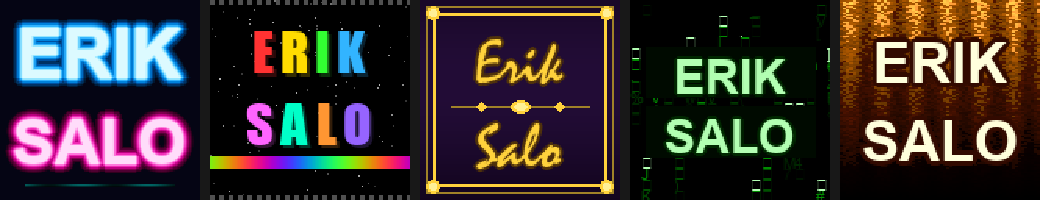
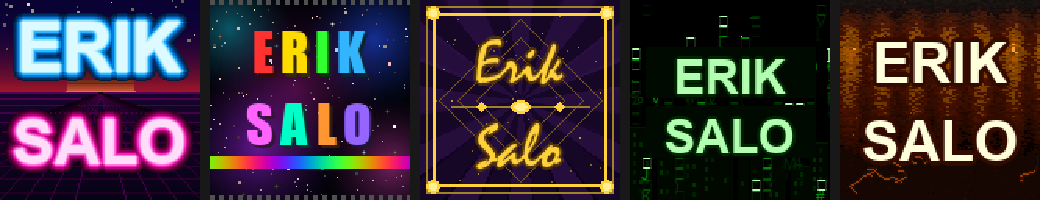
Add theme CLI and OpenClaw skill for Lex integration
- divoom_themes.py: CLI tool with named themes, aliases, and per-screen control
- openclaw-skill/SKILL.md: teaches Lex the available themes and commands

diff --git a/divoom_themes.py b/divoom_themes.py
@@ -1,0 +1,182 @@
+#!/usr/bin/env python3
+"""
+Divoom Times Gate Theme Controller
+CLI for applying named themes to individual screens.
+
+Usage:
+    python divoom_themes.py list
+    python divoom_themes.py apply <theme> <screen>
+    python divoom_themes.py apply-all
+    python divoom_themes.py brightness <0-100>
+"""
+
+import sys
+import os
+import argparse
+import time
+
+# Ensure we can import from the same directory regardless of cwd
+sys.path.insert(0, os.path.dirname(os.path.abspath(__file__)))
+from divoom_erik import (
+    send_command, send_to_screen, send_animation,
+    make_screen_neon, make_screen_arcade, make_screen_gold,
+    make_screen_matrix, make_screen_fire,
+)
+
+THEMES = {
+    "synthwave": {
+        "description": "Retro synthwave: neon sun, perspective grid floor, cyan/magenta glow text",
+        "aliases": ["neon", "retro", "vaporwave", "80s", "grid", "outrun"],
+        "animated": False,
+        "make": make_screen_neon,
+    },
+    "nebula": {
+        "description": "Cosmic nebula: colorful gas clouds, bright starfield, rainbow letters",
+        "aliases": ["cosmic", "space", "galaxy", "stars", "arcade"],
+        "animated": False,
+        "make": make_screen_arcade,
+    },
+    "gold": {
+        "description": "Art deco gold: sunburst rays on purple, diamond shapes, ornamental frame",
+        "aliases": ["artdeco", "elegant", "royal", "fancy", "purple", "deco"],
+        "animated": False,
+        "make": make_screen_gold,
+    },
+    "matrix": {
+        "description": "Matrix city: green rain, city skyline silhouette, flickering windows",
+        "aliases": ["cyber", "hacker", "code", "rain", "city", "digital", "green"],
+        "animated": True,
+        "make": make_screen_matrix,
+        "frames": 10,
+        "speed_ms": 300,
+    },
+    "fire": {
+        "description": "Volcanic fire: lava cracks, floating embers, smoke, flames",
+        "aliases": ["volcano", "lava", "flames", "inferno", "volcanic", "ember"],
+        "animated": True,
+        "make": make_screen_fire,
+        "frames": 10,
+        "speed_ms": 250,
+    },
+}
+
+# Default layout: which theme goes on which screen (0-4 left to right)
+DEFAULT_LAYOUT = [
+    ("synthwave", 0),
+    ("nebula", 1),
+    ("gold", 2),
+    ("matrix", 3),
+    ("fire", 4),
+]
+
+
+def resolve_theme(name):
+    """Resolve a theme by name or alias. Returns canonical theme name or None."""
+    name = name.lower().strip()
+    if name in THEMES:
+        return name
+    for theme_name, info in THEMES.items():
+        if name in info["aliases"]:
+            return theme_name
+    return None
+
+
+def apply_theme(theme_name, screen_id):
+    """Generate and send a theme to a specific screen."""
+    info = THEMES[theme_name]
+    print(f"Applying '{theme_name}' to screen {screen_id}...")
+
+    if info["animated"]:
+        frames = info["make"](num_frames=info["frames"])
+        send_animation(screen_id, frames, speed_ms=info["speed_ms"])
+    else:
+        img = info["make"]()
+        send_to_screen(screen_id, img)
+
+    print(f"  Done! Screen {screen_id} = {theme_name}")
+
+
+def cmd_list(args):
+    """List all available themes."""
+    print("Available Divoom Times Gate themes:\n")
+    for name, info in THEMES.items():
+        anim = " (animated)" if info["animated"] else ""
+        aliases = ", ".join(info["aliases"])
+        print(f"  {name:12s}{anim}")
+        print(f"    {info['description']}")
+        print(f"    aliases: {aliases}\n")
+    print("Screens are numbered 0-4 (left to right).")
+    print("Default layout: " + ", ".join(f"{s}={t}" for t, s in DEFAULT_LAYOUT))
+
+
+def cmd_apply(args):
+    """Apply a theme to a screen."""
+    theme = resolve_theme(args.theme)
+    if theme is None:
+        print(f"Error: Unknown theme '{args.theme}'")
+        print(f"Available: {', '.join(THEMES.keys())}")
+        sys.exit(1)
+    if not 0 <= args.screen <= 4:
+        print(f"Error: Screen must be 0-4, got {args.screen}")
+        sys.exit(1)
+
+    send_command({"Command": "Draw/ResetHttpGifId"})
+    time.sleep(0.3)
+    apply_theme(theme, args.screen)
+
+
+def cmd_apply_all(args):
+    """Apply the default 5-theme layout to all screens."""
+    print("Applying default layout to all 5 screens...")
+    send_command({"Command": "Draw/ResetHttpGifId"})
+    time.sleep(0.3)
+
+    for theme_name, screen_id in DEFAULT_LAYOUT:
+        apply_theme(theme_name, screen_id)
+        time.sleep(0.3)
+
+    print("\nAll 5 screens updated!")
+
+
+def cmd_brightness(args):
+    """Set display brightness."""
+    level = max(0, min(100, args.level))
+    print(f"Setting brightness to {level}%...")
+    send_command({"Command": "Channel/SetBrightness", "Brightness": level})
+
+
+def main():
+    parser = argparse.ArgumentParser(
+        description="Divoom Times Gate Theme Controller",
+        epilog="Themes: " + ", ".join(THEMES.keys()),
+    )
+    sub = parser.add_subparsers(dest="command", required=True)
+
+    # list
+    sub.add_parser("list", help="List available themes")
+
+    # apply <theme> <screen>
+    p_apply = sub.add_parser("apply", help="Apply a theme to a screen")
+    p_apply.add_argument("theme", help="Theme name or alias")
+    p_apply.add_argument("screen", type=int, help="Screen number (0-4)")
+
+    # apply-all
+    sub.add_parser("apply-all", help="Apply default layout to all screens")
+
+    # brightness <level>
+    p_bright = sub.add_parser("brightness", help="Set brightness (0-100)")
+    p_bright.add_argument("level", type=int, help="Brightness level 0-100")
+
+    args = parser.parse_args()
+
+    commands = {
+        "list": cmd_list,
+        "apply": cmd_apply,
+        "apply-all": cmd_apply_all,
+        "brightness": cmd_brightness,
+    }
+    commands[args.command](args)
+
+
+if __name__ == "__main__":
+    main()

diff --git a/openclaw-skill/SKILL.md b/openclaw-skill/SKILL.md
@@ -1,0 +1,56 @@
+---
+name: divoom-themes
+description: Apply visual themes to the Divoom Times Gate 5-screen display
+---
+
+# Divoom Times Gate Theme Controller
+
+Control the **Divoom Times Gate** display — 5 individual 128×128 LCD screens (numbered **0–4**, left to right) at IP `10.0.0.21`.
+
+All commands use the CLI tool:
+```
+python "D:/My Documents/PlatformIO/DivoomDirectControl/divoom_themes.py" <command> [args]
+```
+
+## Themes
+
+| Theme | Aliases | Description |
+|-------|---------|-------------|
+| **synthwave** | neon, retro, vaporwave, 80s, grid, outrun | Retro synthwave sunset, perspective grid floor, cyan/magenta neon glow |
+| **nebula** | cosmic, space, galaxy, stars, arcade | Cosmic nebula gas clouds, colorful starfield, rainbow letters |
+| **gold** | artdeco, elegant, royal, fancy, purple, deco | Art deco sunburst on purple, gold ornamental frame, script font |
+| **matrix** | cyber, hacker, code, rain, city, digital, green | Matrix green rain, city skyline with flickering windows (animated) |
+| **fire** | volcano, lava, flames, inferno, volcanic, ember | Volcanic fire, lava cracks, floating embers (animated) |
+
+## Commands
+
+**Apply a theme to one screen:**
+```
+python "D:/My Documents/PlatformIO/DivoomDirectControl/divoom_themes.py" apply <theme> <screen>
+```
+`<theme>` — any theme name or alias from the table above.
+`<screen>` — screen number 0–4 (left to right).
+
+**Apply the default layout to all 5 screens:**
+```
+python "D:/My Documents/PlatformIO/DivoomDirectControl/divoom_themes.py" apply-all
+```
+Default: 0=synthwave, 1=nebula, 2=gold, 3=matrix, 4=fire.
+
+**Set brightness:**
+```
+python "D:/My Documents/PlatformIO/DivoomDirectControl/divoom_themes.py" brightness <0-100>
+```
+
+**List themes:**
+```
+python "D:/My Documents/PlatformIO/DivoomDirectControl/divoom_themes.py" list
+```
+
+## Examples
+
+- "Put the fire theme on screen 2" → `apply fire 2`
+- "Make all screens synthwave" → run `apply synthwave 0`, then `apply synthwave 1`, etc.
+- "Set up the default display" → `apply-all`
+- "Switch screen 0 to the space theme" → `apply nebula 0`
+- "Dim the display to 30%" → `brightness 30`
